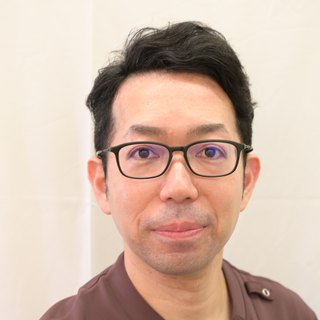
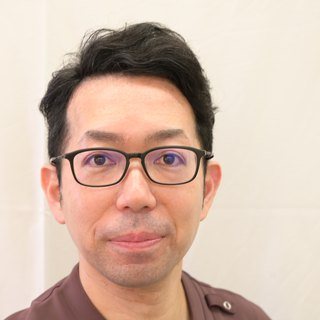
看護師2名の写真を追加、顔写真2枚を切り出し直し、他己紹介に写真を追加
- 外間 ひとみ（師長）と喜名（副師長・師長の隣）の顔写真を index に追加
- 落合 伸伍・小波本 直也の顔写真を、顔が中央に来るよう切り出し直した
  （横のずれを補正し、縦は枠が画像上端に張り付いていたため少し寄せて調整）
- recruit の他己紹介に酒井・小波本の写真を追加。.peer-avatar.has-photo で
  イラスト用の内側余白を消し、円いっぱいに表示する

喜名副師長は姓のみの表示。他のカードはフルネームなので、名が判明したら差し替える。

style.css を変更したため ?v= を 20260915g に更新（index / recruit 両方）。

diff --git a/recruit.html b/recruit.html
@@ -7,7 +7,7 @@
   <title>レジデント・フェロー募集 | 集中治療科 沖縄県立中部病院</title>
   <link rel="preconnect" href="https://fonts.googleapis.com">
   <link href="https://fonts.googleapis.com/css2?family=Noto+Sans+JP:wght@300;400;500;600;700&family=Noto+Serif+JP:wght@400;500;600;700&display=swap" rel="stylesheet">
-  <link rel="stylesheet" href="style.css?v=20260915f">
+  <link rel="stylesheet" href="style.css?v=20260915g">
[1 lines of base64/hex data omitted]
 </head>
 <body>
@@ -605,8 +605,8 @@
       <div class="peer-card reveal role-doctor">
         <div class="placeholder-tag">PLACEHOLDER — 実際のコメントに差し替え予定</div>
         <div class="peer-portrait">
-          <div class="peer-avatar">
-            <svg viewBox="0 0 64 64" fill="none" xmlns="http://www.w3.org/2000/svg"><circle cx="32" cy="23" r="13" fill="currentColor"/><path d="M10 57c0-13.3 9.8-22.5 22-22.5S54 43.7 54 57" fill="currentColor"/></svg>
+          <div class="peer-avatar has-photo">
+            <img src="media/photos/sakai-akihiro.jpg" alt="酒井 亮裕 集中治療専門医" width="320" height="320" loading="lazy">
           </div>
           <div class="peer-tagline">緊急時こそ、頼りになる人</div>
         </div>
@@ -636,8 +636,8 @@
       <div class="peer-card reveal role-np">
         <div class="placeholder-tag">PLACEHOLDER — 実際のコメントに差し替え予定</div>
         <div class="peer-portrait">
-          <div class="peer-avatar">
-            <svg viewBox="0 0 64 64" fill="none" xmlns="http://www.w3.org/2000/svg"><circle cx="32" cy="23" r="13" fill="currentColor"/><path d="M10 57c0-13.3 9.8-22.5 22-22.5S54 43.7 54 57" fill="currentColor"/></svg>
+          <div class="peer-avatar has-photo">
+            <img src="media/photos/konamoto-naoya.jpg" alt="小波本 直也 診療看護師（NP）" width="320" height="320" loading="lazy">
           </div>
           <div class="peer-tagline">カンファレンスに欠かせない、鋭い視点</div>
         </div>

diff --git a/index.html b/index.html
@@ -7,7 +7,7 @@
   <title>集中治療科 | 沖縄県立中部病院</title>
   <link rel="preconnect" href="https://fonts.googleapis.com">
   <link href="https://fonts.googleapis.com/css2?family=Noto+Sans+JP:wght@300;400;500;600;700&family=Noto+Serif+JP:wght@400;500;600;700&display=swap" rel="stylesheet">
-  <link rel="stylesheet" href="style.css?v=20260915f">
+  <link rel="stylesheet" href="style.css?v=20260915g">
[1 lines of base64/hex data omitted]
 </head>
 <body>
@@ -632,15 +632,15 @@
       </div>
       <div class="staff-grid" style="margin-bottom:var(--space-5);">
         <div class="staff-card tier-nursing reveal">
-          <div class="staff-photo"><div class="img-placeholder" style="width:80px;height:80px;border-radius:50%;"><span class="staff-avatar-initial">看</span></div></div>
-          <div class="staff-name">氏　名</div>
+          <div class="staff-photo"><img class="staff-img" src="media/photos/hokama.jpg" alt="外間 ひとみ 師長" width="320" height="320" loading="lazy"></div>
+          <div class="staff-name">外間 ひとみ</div>
           <div class="staff-role">師長</div>
           <div class="staff-role-en">Head Nurse</div>
           <div class="staff-spec">ICU専任</div>
         </div>
         <div class="staff-card tier-nursing reveal">
-          <div class="staff-photo"><div class="img-placeholder" style="width:80px;height:80px;border-radius:50%;"><span class="staff-avatar-initial">看</span></div></div>
-          <div class="staff-name">氏　名</div>
+          <div class="staff-photo"><img class="staff-img" src="media/photos/kina.jpg" alt="喜名 副師長" width="320" height="320" loading="lazy"></div>
+          <div class="staff-name">喜名</div>
           <div class="staff-role">副師長</div>
           <div class="staff-role-en">Deputy Head Nurse</div>
           <div class="staff-spec">ICU専任</div>

diff --git a/style.css b/style.css
@@ -676,6 +676,13 @@ body.nav-open { overflow: hidden; }
   border: 3px solid var(--primary-light); flex-shrink: 0;
 }
 .peer-avatar svg { width: 100%; height: 100%; color: var(--primary); }
+/* 他己紹介に実写真を入れる枠。イラストのときの内側余白をなくして
+   写真を円いっぱいに広げる（枠線と大きさはイラストのときと同じ） */
+.peer-avatar.has-photo { padding: 0; overflow: hidden; }
+.peer-avatar.has-photo img {
+  width: 100%; height: 100%; display: block;
+  object-fit: cover; border-radius: 50%;
+}
 .peer-card.role-nurse .peer-avatar { border-color: rgba(74,133,119,0.4); background: rgba(74,133,119,0.08); }
 .peer-card.role-nurse .peer-avatar svg { color: var(--staff-nursing); }
 .peer-card.role-np .peer-avatar { border-color: rgba(31,165,147,0.4); background: rgba(31,165,147,0.08); }

diff --git a/HANDOFF.md b/HANDOFF.md
@@ -84,13 +84,19 @@ HTMLの文章だけ直した場合は触らなくてよい。
    ①`.*?` が複数カードをまたいで飲み込んだ ②閉じ `</div>` を1つ多く数えて氏名まで消した。
    置換後は必ず `staff-card` と `staff-name` の**件数が変わっていないこと**を検証する
 
-### 保留中（ローカルにあるがコミットしていない）
+### 追加対応（同日・ユーザー指示）
 
-| ファイル | 理由 |
+- 外間師長を **外間 ひとみ**として師長枠に、喜名副師長をその隣（副師長2枠のうち1つめ）に配置
+- 落合・小波本の顔写真を**顔が中央に来るよう切り出し直した**（横方向のずれ＋縦は寄って調整）
+- recruit の他己紹介（#peer-intro）に酒井・小波本の写真を追加。`.peer-avatar.has-photo` で
+  イラスト用の内側余白を消して円いっぱいに表示する
+
+### 保留中
+
+| 項目 | 理由 |
 |---|---|
-| `media/photos/hokama.jpg` | 外間師長。掲載枠の氏名が `氏　名` のまま。**フルネーム待ち** |
-| `media/photos/kina.jpg` | 喜名副師長。同上。**副師長の枠が2つあるためどちらかも要確認** |
-| `media/photos/hospital-exterior.jpg` | 病院外観。**対応する枠がサイトに存在しない**。設置先の指示待ち |
+| **喜名副師長の名** | **姓のみ表示中**。他はフルネームなので、判明し次第 `.staff-name` を差し替える |
+| `media/photos/hospital-exterior.jpg` | 病院外観。**対応する枠がサイトに存在しない**（ローカルのみ・非コミット）。設置先の指示待ち |
 
 ### 写真について報告済み・未対応の点
 

diff --git a/README.md b/README.md
@@ -120,11 +120,17 @@
 「顔写真は正式許可後」という原則に対する運用上の更新であり、個々の許可取得の経緯・
 書面の有無については記録していないため、正式許可プロセスの際に改めて確認すること。
 
-掲載した7名: 井澤 純一／酒井 亮裕／依光 たみ枝／落合 伸伍／江田 哲信／森 祐太／小波本 直也
+掲載した9名: 井澤 純一／酒井 亮裕／依光 たみ枝／落合 伸伍／江田 哲信／森 祐太／小波本 直也
+／外間 ひとみ（師長）／喜名（副師長）
 
-**未掲載で保留中の2名**: 外間師長・喜名副師長。写真は受領済みだが、`index.html` の該当枠が
-`氏　名` のままで**フルネームが未確定**のため、リポジトリにコミットしていない
-（氏名が決まり次第、`media/photos/hokama.jpg` `kina.jpg` を配置する）。
+**⚠ 喜名副師長は姓のみの表示**。他のカードはすべてフルネームなので、名が判明し次第
+`.staff-name` を差し替えること。配置は「師長の隣（副師長2枠のうち1つめ）」でユーザー指定済み。
+
+顔写真は `recruit.html` の他己紹介（#peer-intro）にも使用（酒井・小波本の2名、同じ画像を共用）。
+残る1枠は氏名未定のためイラストのアイコンのまま。
+
+写真がまだ無いのは、副師長のもう1枠・認定看護師・フェロー4名（石島／高橋／仲田）・
+非常勤医師（岩永）。
 
 ##### 写真素材の取り扱いルール
 
